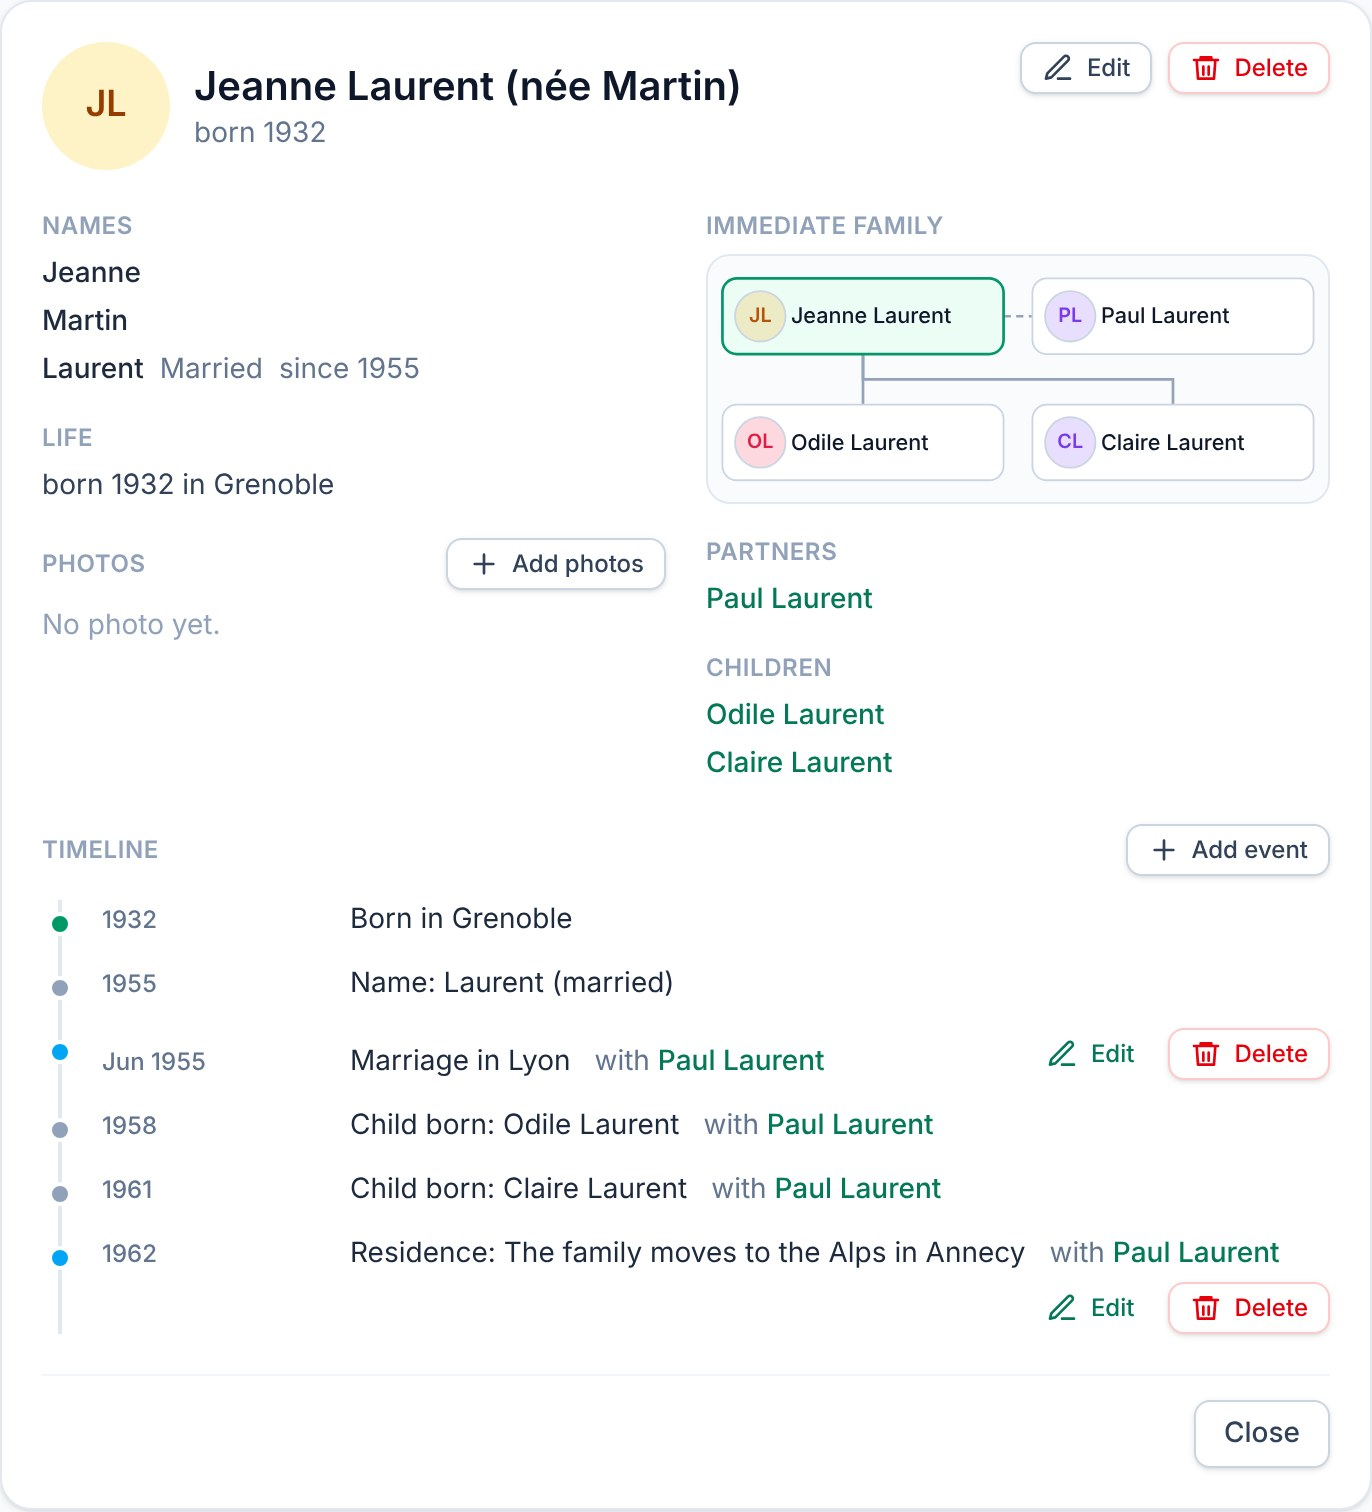
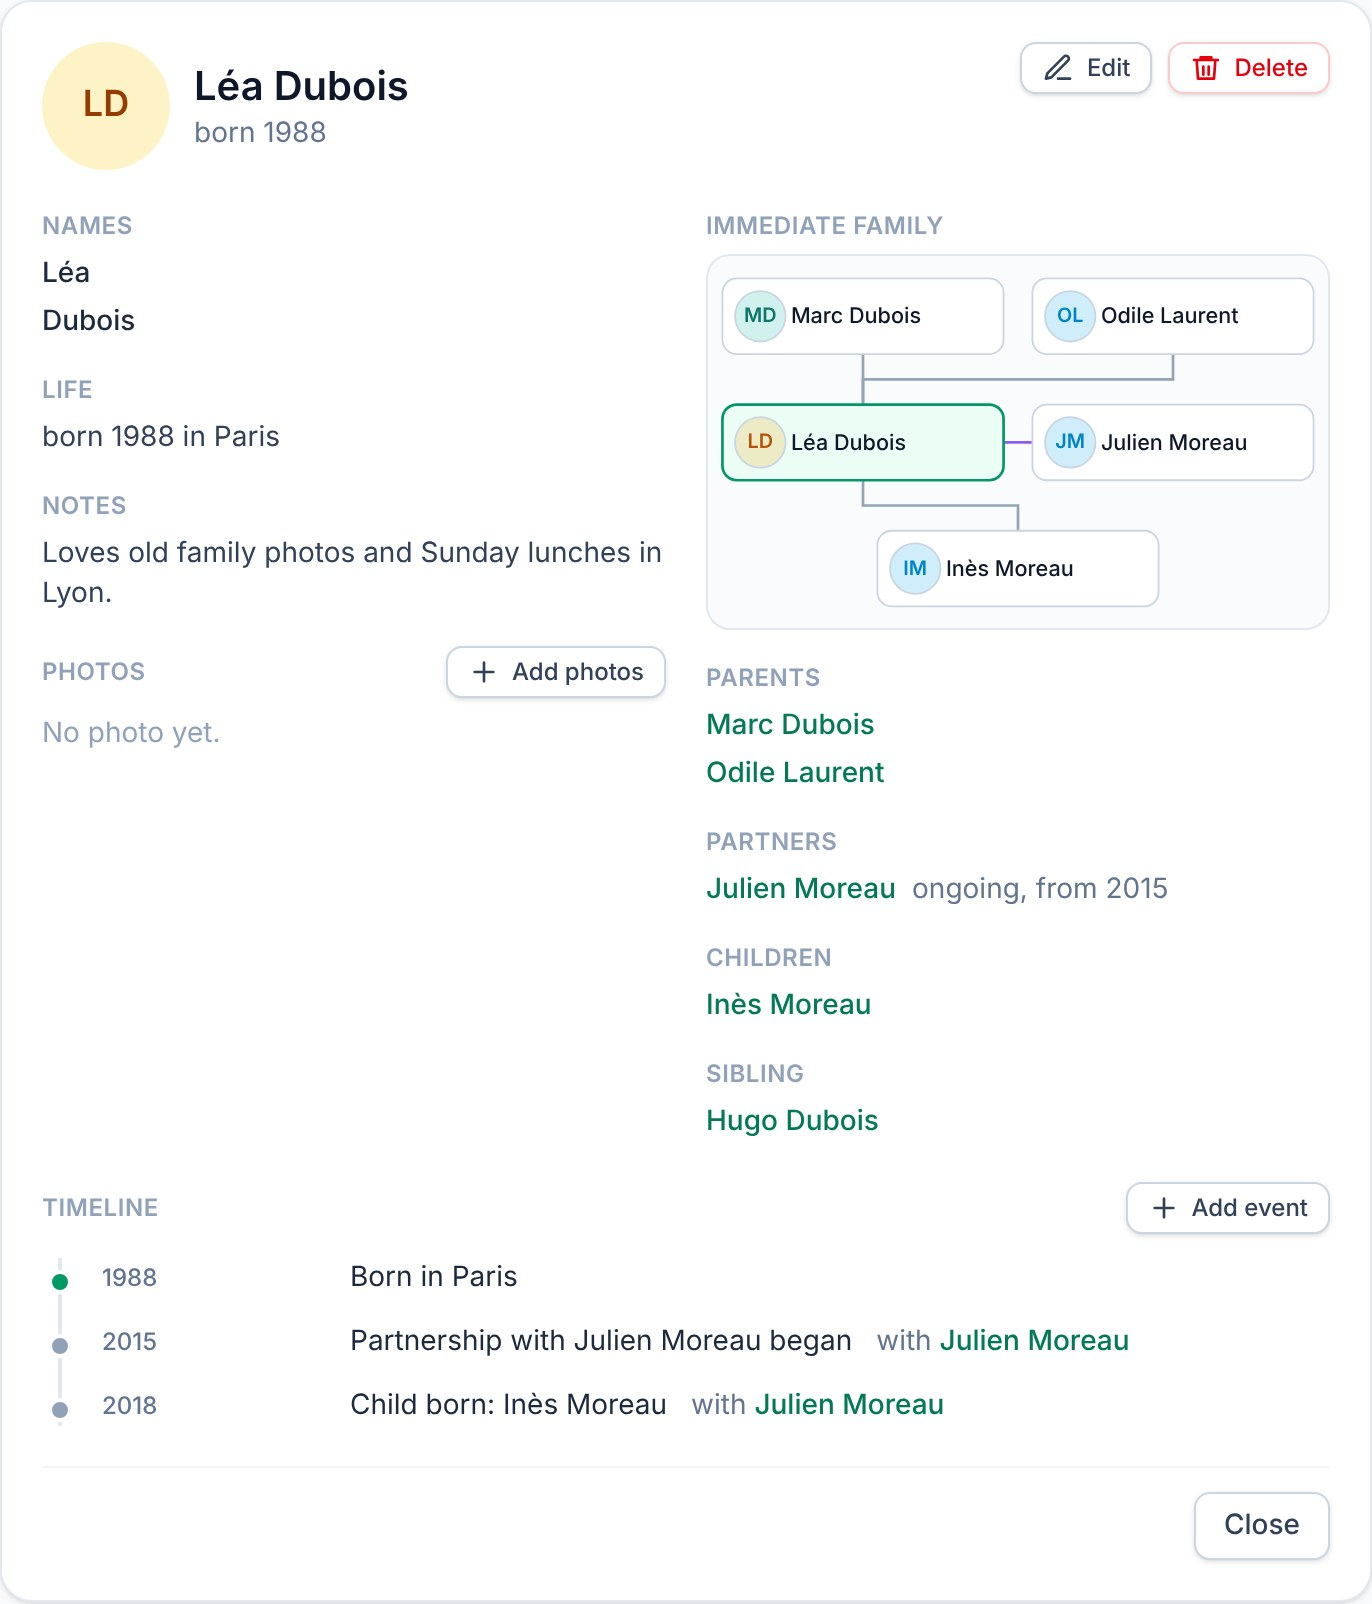
docs: retake the README and project page screenshots
- Whole-family tree, violet partner links, current UI
- scripts/screenshots/take.mjs makes them repeatable

diff --git a/docs/index.html b/docs/index.html
@@ -571,14 +571,14 @@
             class="light-only"
             src="screenshots/tree-light.jpg"
             width="2880"
-            height="2360"
-            alt="A family tree in Genealogigi, from great-grandparents down to grandchildren."
+            height="1800"
+            alt="The whole family tree in Genealogigi: grandparents at the top down to a great-grandchild, couples joined by a violet line."
           />
           <img
             class="dark-only"
             src="screenshots/tree-dark.jpg"
             width="2880"
-            height="2360"
+            height="1800"
             alt="The same family tree in the dark theme."
           />
         </div>
@@ -630,7 +630,7 @@
               class="light-only"
               src="screenshots/card-light.jpg"
               width="1372"
-              height="1512"
+              height="1604"
               alt="A person's page with their names, a small family tree and a timeline of their life."
               loading="lazy"
             />
@@ -638,7 +638,7 @@
               class="dark-only"
               src="screenshots/card-dark.jpg"
               width="1372"
-              height="1512"
+              height="1604"
               alt="A person's page in the dark theme."
               loading="lazy"
             />

diff --git a/README.md b/README.md
@@ -25,7 +25,7 @@
 
 <picture>
   <source media="(prefers-color-scheme: dark)" srcset="docs/screenshots/tree-dark.jpg" />
-  <img alt="Genealogigi showing a family tree in hourglass layout, centred on one person, with family counts and filters above the chart." src="docs/screenshots/tree-light.jpg" />
+  <img alt="Genealogigi showing the whole family tree, every person once, with couples joined by a violet line and filters above the chart." src="docs/screenshots/tree-light.jpg" />
 </picture>
 
 ## Overview
@@ -44,7 +44,7 @@ is a read-only check of the public GitHub releases API, and it sends no family d
 | --- | --- |
 | **People** | Several names per person (birth, married, nickname) with dates; partial birth/death dates; birth and death places; living/deceased status; free-text notes; portrait photos. |
 | **Relationships** | Parent-child links (biological confirmed/presumed, adoptive, step, foster, guardian, with status and dates) and partnerships. Duplicate links and cycles are rejected. |
-| **Trees** | Ancestors, descendants and hourglass layouts, with siblings; scaled to the window; a focused person with generation counts; soft, cumulative filters (status, places, months, last name) that fade rather than hide. |
+| **Trees** | The whole family at once, or ancestors, descendants and hourglass layouts around one person, with siblings; scaled to the window; a focused person with generation counts; soft, cumulative filters (status, places, months, last name) that fade rather than hide. |
 | **Person card** | Derived timeline (births, name changes, partnerships, children, user events), immediate-family mini tree, photo gallery. |
 | **Search** | Accent- and case-insensitive over names, places and notes; filters the list, highlights in the tree. |
 | **Sharing** | Export one self-contained, read-only HTML page that opens offline in any browser, plus export/import of the family file. Import replaces the family only after a confirmation and a verified, hashed backup. |

diff --git a/DEVELOPMENT.md b/DEVELOPMENT.md
@@ -92,6 +92,12 @@ weekly workflow `.github/workflows/real-app.yml`.
 | `e2e/`                          | Playwright tests, one file per feature                                                   |
 | `openspec/`                     | Archived feature specs (`specs/`) and in-flight changes (`changes/`)                     |
 
+## Retaking the screenshots
+
+The README and the project page use `docs/screenshots/` (fictional family, light and dark). With the
+dev server running (`npm run dev`), `node scripts/screenshots/take.mjs` rebuilds the family with the
+app's own data layer and retakes all six images (set `PW_CHROMIUM_PATH` to reuse a Chromium).
+
 ## Working on a feature (OpenSpec)
 
 Each feature starts as a change: `openspec new change <name>`, write the

diff --git a/TODO.md b/TODO.md
@@ -270,3 +270,5 @@ Automated on every feature: unit tests, browser e2e (fake shell), format, lint, 
 - **2026-10-19 (tree default)** — Tree tab opens on Everyone. Shared page tree: portraits, centred. Archived `tree-default-everyone`.
 
 - **2026-10-19 (filter title)** — Removed the "Fade people who do not match" line from the tree filters. Archived `remove-filter-title`.
+
+- **2026-10-19 (screenshots)** — Retook the six README/project-page screenshots with the current UI (whole-family tree, violet partner links, new fictional family of 11); `scripts/screenshots/take.mjs` makes them repeatable.
